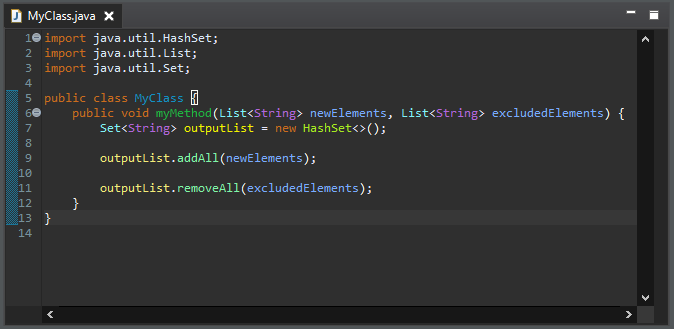
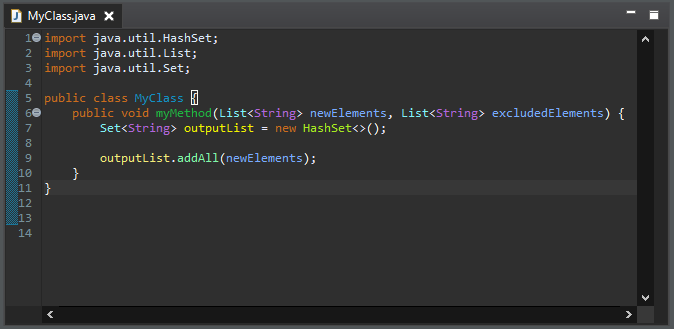
Bug 567335 - [AutoRefactor immigration #25/136] [cleanup & saveaction] Use Collection.addAll(), Collection.addAll(Arrays.asList()) or Collections.addAll() instead of loop
Depends-On: I84dc837d4dcd89fa5f423905b841a3199918de51

Changed region(s): [[0.1558, 0.5471, 0.5608, 0.6079], [0.0935, 0.6079, 0.1246, 0.6383], [0.0935, 0.5167, 0.1246, 0.5471]]

diff --git a/4.18/jdt.html b/4.18/jdt.html
@@ -247,21 +247,18 @@ ul {padding-left: 13px;}
   </tr>
   
   <tr id="add-remove"> <!-- https://bugs.eclipse.org/bugs/show_bug.cgi?id=567335 -->
-    <td class="title"><a href="#add-remove">Add or remove elements in collections without loop</a></td>
+    <td class="title"><a href="#add-remove">Add elements in collections without loop</a></td>
     <td class="content">
-      A new clean up has been added that uses <code>Collection.addAll()</code>, <code>Collection.removeAll()</code>, <code>Collections.addAll()</code> or <code>Collections.removeAll()</code> instead of a <code>for</code> loop.
+      A new clean up has been added that uses <code>Collection.addAll()</code> or <code>Collections.addAll()</code> instead of a <code>for</code> loop.
       <p>
         It refactors <code>for</code> loops with index, <code>for</code> loops with iterator and <code>foreach</code> loops.
-      </p>
-      <p>
-        It only uses <code>Collection.removeAll()</code> on <code>Set</code> because the behavior may change on list with double values.
       </p>
       <p>
         If the source is an array, the list is raw, and the Java version is 1.5 or higher, we use Arrays.asList() to handle the erasure type.
         It doesn't decrease the performance.
       </p>
       <p>
-        To apply the clean up, invoke <b>Source &gt; Clean Up...</b>, use a custom profile, and on the <b>Configure...</b> dialog, select <b>Add or remove elements in collections without loop</b> check box on the <b>Code Style</b> tab.
+        To apply the clean up, invoke <b>Source &gt; Clean Up...</b>, use a custom profile, and on the <b>Configure...</b> dialog, select <b>Add elements in collections without loop</b> check box on the <b>Code Style</b> tab.
       </p>
       <p><img src="images/add-remove-preferences.png" alt="Preferences" width="800 px"/></p>
       <p>
